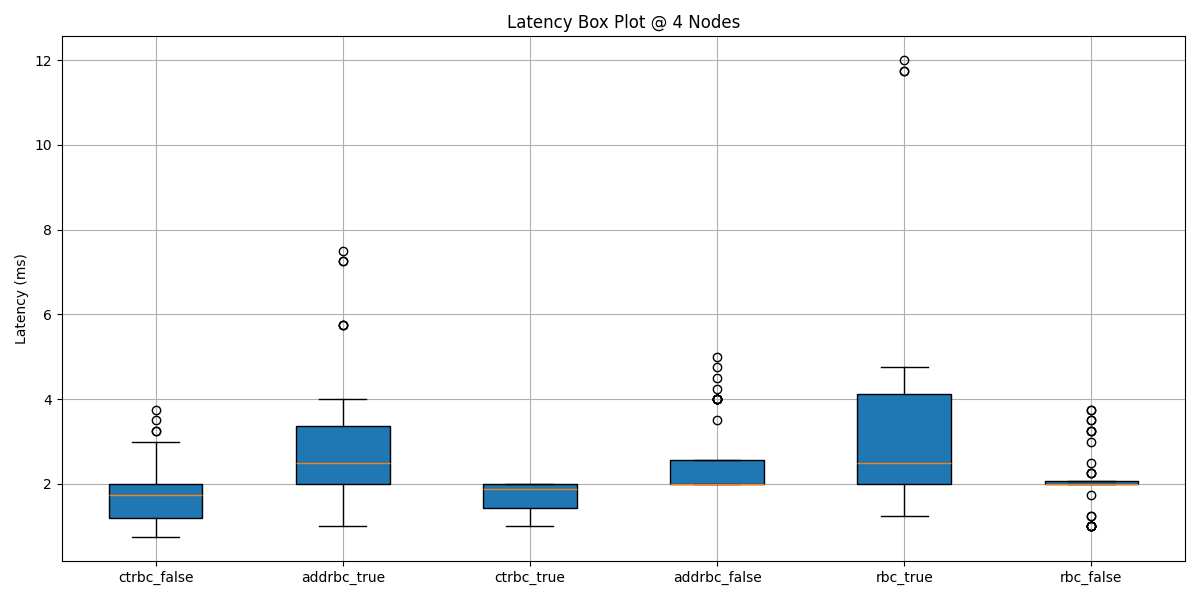
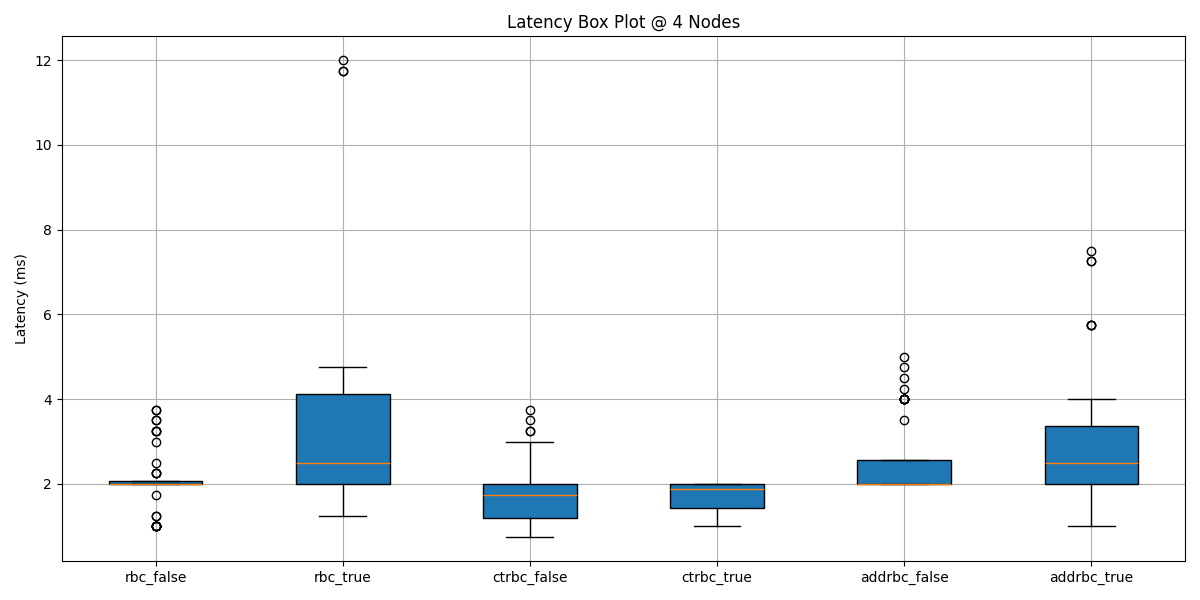
[ctrbc] Byzantine node changes

diff --git a/consensus/ctrbc/src/protocol/init.rs b/consensus/ctrbc/src/protocol/init.rs
@@ -1,56 +1,66 @@
 use consensus::get_shards;
 use crypto::{
-    aes_hash::{MerkleTree, HashState},
+    aes_hash::{HashState, MerkleTree},
     hash::{do_hash, Hash},
 };
-use types::{WrapperMsg};
+use types::WrapperMsg;
 
-use crate::{Context};
+use crate::Context;
 use crate::{CTRBCMsg, ProtMsg};
 use network::{plaintcp::CancelHandler, Acknowledgement};
 
 impl Context {
     // Dealer sending message to everybody
-    pub async fn start_init(self: &mut Context, msg:Vec<u8>, instance_id:usize) {
-        log::info!("Starting CTRBC Init for instance id {} with msg {:?}", instance_id, msg);
-        let shards = get_shards(msg, self.num_faults+1, 2*self.num_faults);
-        
-        let merkle_tree = construct_merkle_tree(shards.clone(),&self.hash_context);
-        
+    pub async fn start_init(self: &mut Context, msg: Vec<u8>, instance_id: usize) {
+        log::info!(
+            "Starting CTRBC Init for instance id {} with msg {:?}",
+            instance_id,
+            msg
+        );
+        let shards = get_shards(msg, self.num_faults + 1, 2 * self.num_faults);
+        let zero_shards: Vec<Vec<u8>> = shards.iter().map(|shard| vec![0u8; shard.len()]).collect();
+
+        let merkle_tree = construct_merkle_tree(shards.clone(), &self.hash_context);
+        let zero_merkle_tree = construct_merkle_tree(zero_shards.clone(), &self.hash_context);
+
         let sec_key_map = self.sec_key_map.clone();
         for (replica, sec_key) in sec_key_map.into_iter() {
-            
             let ctrbc_msg = CTRBCMsg {
                 shard: if self.byz {
-                    vec![0u8; shards[replica].len()]
+                    zero_shards[replica].clone()
+                    //shards[replica].clone()
                 } else {
                     shards[replica].clone()
                 },
-                mp: merkle_tree.gen_proof(replica),
+                mp: if self.byz {
+                    zero_merkle_tree.gen_proof(replica)
+                } else {
+                    merkle_tree.gen_proof(replica)
+                },
                 origin: self.myid,
             };
-             
+
             if replica == self.myid {
-                self.handle_init(ctrbc_msg,instance_id).await;
-            } 
-            
-            else {
+                self.handle_init(ctrbc_msg, instance_id).await;
+            } else {
                 let protocol_msg = ProtMsg::Init(ctrbc_msg, instance_id);
-                let wrapper_msg = WrapperMsg::new(protocol_msg.clone(), self.myid, &sec_key.as_slice());
-                let cancel_handler: CancelHandler<Acknowledgement> = self.net_send.send(replica, wrapper_msg).await;
+                let wrapper_msg =
+                    WrapperMsg::new(protocol_msg.clone(), self.myid, &sec_key.as_slice());
+                let cancel_handler: CancelHandler<Acknowledgement> =
+                    self.net_send.send(replica, wrapper_msg).await;
                 self.add_cancel_handler(cancel_handler);
             }
-
         }
     }
 
-    pub async fn handle_init(self: &mut Context, msg: CTRBCMsg, instance_id:usize) {
+    pub async fn handle_init(self: &mut Context, msg: CTRBCMsg, instance_id: usize) {
         //send echo
         // self.start_echo(msg.content.clone()).await;
         if !msg.verify_mr_proof(&self.hash_context) {
             log::error!(
-                "Invalid Merkle Proof sent by node {}, abandoning RBC",
-                msg.origin
+                "Invalid Merkle Proof sent by node {}, abandoning RBC instance {}",
+                msg.origin,
+                instance_id
             );
             return;
         }
@@ -68,7 +78,7 @@ impl Context {
         };
 
         // Start echo
-        self.handle_echo(ctrbc_msg.clone(),instance_id).await;
+        self.handle_echo(ctrbc_msg.clone(), instance_id).await;
         let protocol_msg = ProtMsg::Echo(ctrbc_msg, instance_id);
 
         self.broadcast(protocol_msg).await;
@@ -78,11 +88,8 @@ impl Context {
     }
 }
 
-pub fn construct_merkle_tree(shards:Vec<Vec<u8>>, hc: &HashState)->MerkleTree{
-    let hashes_rbc: Vec<Hash> = shards
-        .into_iter()
-        .map(|x| do_hash(x.as_slice()))
-        .collect();
+pub fn construct_merkle_tree(shards: Vec<Vec<u8>>, hc: &HashState) -> MerkleTree {
+    let hashes_rbc: Vec<Hash> = shards.into_iter().map(|x| do_hash(x.as_slice())).collect();
 
     MerkleTree::new(hashes_rbc, hc)
 }

diff --git a/scripts/aggregate_and_plot.py b/scripts/aggregate_and_plot.py
@@ -51,6 +51,8 @@ for node_count in sorted(aggregated_data.keys()):
         mean = data.mean()
         median = np.median(data)
         std = data.std()
+        print(f"{config_key} @ {node_count} nodes -> Mean: {mean:.2f} ms, Median: {median:.2f} ms, Std Dev: {std:.2f} ms")
+
 
         # --- Histogram with normal curve ---
         plt.figure(figsize=(12, 6))
@@ -70,15 +72,27 @@ for node_count in sorted(aggregated_data.keys()):
         plt.savefig(f"latency_hist_{config_key}_{node_count}.png")
         plt.close()
 
+  # Define a fixed, consistent order for config keys
+    ordered_config_keys = [
+        "rbc_false", "rbc_true",
+        "ctrbc_false", "ctrbc_true",
+        "addrbc_false", "addrbc_true",
+    ]
+
     # --- Box plot comparing configs for this node count ---
     plt.figure(figsize=(12, 6))
     data_for_box = []
     labels = []
 
-    for config_key, msg_dict in aggregated_data[node_count].items():
+    for config_key in ordered_config_keys:
+        msg_dict = aggregated_data[node_count].get(config_key)
+        if not msg_dict:
+            continue
+
         all_latencies = []
-        for msg_id, lat_list in msg_dict.items():
+        for lat_list in msg_dict.values():
             all_latencies.extend(lat_list)
+
         if all_latencies:
             data_for_box.append(all_latencies)
             labels.append(config_key)
@@ -91,3 +105,4 @@ for node_count in sorted(aggregated_data.keys()):
         plt.tight_layout()
         plt.savefig(f"latency_boxplot_{node_count}.png")
         plt.close()
+    

diff --git a/consensus/ctrbc/src/protocol/echo.rs b/consensus/ctrbc/src/protocol/echo.rs
@@ -23,8 +23,9 @@ impl Context {
         // check if verifies
         if !msg.verify_mr_proof(&self.hash_context) {
             log::error!(
-                "Invalid Merkle Proof sent by node {}, abandoning RBC",
-                msg.origin
+                "Invalid Merkle Proof sent by node {}, abandoning RBC instance {}",
+                msg.origin,
+                instance_id
             );
             return;
         }

diff --git a/consensus/ctrbc/src/protocol/ready.rs b/consensus/ctrbc/src/protocol/ready.rs
@@ -19,8 +19,9 @@ impl Context {
         // check if verifies
         if !msg.verify_mr_proof(&self.hash_context) {
             log::error!(
-                "Invalid Merkle Proof sent by node {}, abandoning RBC",
-                msg.origin
+                "Invalid Merkle Proof sent by node {}, abandoning RBC instance {}",
+                msg.origin,
+                instance_id
             );
             return;
         }
